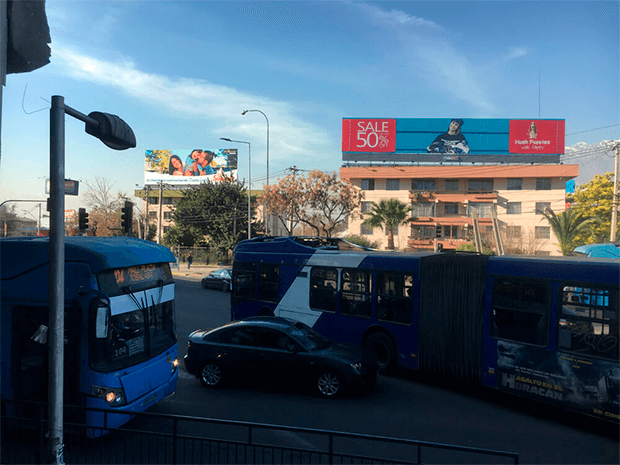
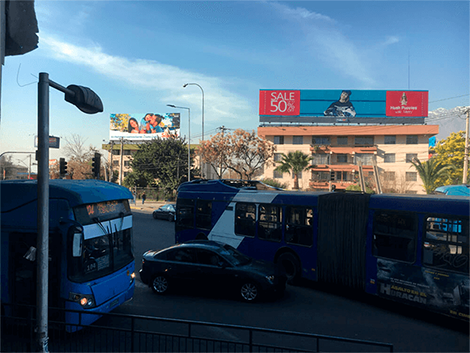
scrset lugar

diff --git a/secciones/lugar.html b/secciones/lugar.html
@@ -7,8 +7,10 @@
     <meta name="viewport" content="width=device-width, initial-scale=1.0">
 
     <!--Keywords y description-->
-    <meta name="keywords" content="ciudad, urbano, urbe, Santiago, Metro, Metro de Santigao, Macul, Peñalolén, La Florida">
-    <meta name="description" content="Estación Macul L4 del Metro de Santiago es el lugar donde se lleva a cabo el proyecto, lugar clave de trasbordo y límite entre comunas">
+    <meta name="keywords"
+        content="ciudad, urbano, urbe, Santiago, Metro, Metro de Santigao, Macul, Peñalolén, La Florida">
+    <meta name="description"
+        content="Estación Macul L4 del Metro de Santiago es el lugar donde se lleva a cabo el proyecto, lugar clave de trasbordo y límite entre comunas">
 
     <!--Open Graph-->
     <meta property="og:title" content="Lugar || La ciudad en los muros">
@@ -21,12 +23,13 @@
 
     <!--Bootstrap CSS-->
     <link href="https://cdn.jsdelivr.net/npm/bootstrap@5.1.3/dist/css/bootstrap.min.css" rel="stylesheet"
-        integrity="sha384-1BmE4kWBq78iYhFldvKuhfTAU6auU8tT94WrHftjDbrCEXSU1oBoqyl2QvZ6jIW3" crossorigin="anonymous"><!--CSS-->
-        <link rel="stylesheet" href="../css/style.css">
-    
+        integrity="sha384-1BmE4kWBq78iYhFldvKuhfTAU6auU8tT94WrHftjDbrCEXSU1oBoqyl2QvZ6jIW3" crossorigin="anonymous">
     <!--CSS-->
     <link rel="stylesheet" href="../css/style.css">
-    
+
+    <!--CSS-->
+    <link rel="stylesheet" href="../css/style.css">
+
     <!--Fonts-->
     <link rel="stylesheet" href="https://use.typekit.net/jet7qle.css">
 
@@ -85,17 +88,26 @@
         <!--Sección 1 – Sobre el lugar-->
         <section class="row about-lugar">
             <div class="col-12">
-                <img src="https://lh3.googleusercontent.com/pw/AM-JKLXtbzCv-mjV5_RDme73v5SpfteoSYqABYh9GOIxlriaQsnIYd6HnV0ruyUUKmicdix2YfzC3UtIuJxYLF9JTvh8lf-GvXglFFVz045LioTiYbwMHnJpmUUN2YiAqYZFMvGK_R1bGuY2QvT_JT8jK0WDCw=w1200-h560-no?authuser=1"
-                    alt="Paso superior Metro Macul L4 Metro de Santiago" class="float-end w-75">
+                <picture class="float-end w-75">
+                    <source media="(max-width: 480px)" srcset="../media/m_lugar__header.webp">
+                    <source media="(min-width: 720px) and (max-width: 1024px)" srcset="../media/t_lugar__header.webp">
+                    <img src="../media/lugar__header.webp" alt="Paso superior Metro Macul L4 Metro de Santiago">
+                </picture>
                 <h1>El lugar</h1>
             </div>
 
             <div class="col-6 col-md-3 offset-md-2" data-aos="fade-up" data-aos-duration="1500">
-                <p class="peque"><i>La ciudad no es de ningún modo perfecta, ni tan siquiera en el sentido limitado de la imaginabilidad; por otra parte, no todo el éxito visual de la ciudad depende de esta sola cualidad. Pero parece haber un placer simple y automático, un sentimiento de satisfacción, de presencia y corrección que surge de la simple vista de la ciudad o de la oportunidad de salir a dar unas vueltas por sus calles.</i></p>
-                <p class="ref">LYNCH, K. La imagen de la ciudad. Barcelona: Editorial Gustavo Gili, SA, 1998, pp. 114.</p>
+                <p class="peque"><i>La ciudad no es de ningún modo perfecta, ni tan siquiera en el sentido limitado de
+                        la imaginabilidad; por otra parte, no todo el éxito visual de la ciudad depende de esta sola
+                        cualidad. Pero parece haber un placer simple y automático, un sentimiento de satisfacción, de
+                        presencia y corrección que surge de la simple vista de la ciudad o de la oportunidad de salir a
+                        dar unas vueltas por sus calles.</i></p>
+                <p class="ref">LYNCH, K. La imagen de la ciudad. Barcelona: Editorial Gustavo Gili, SA, 1998, pp. 114.
+                </p>
             </div>
 
-            <div class="col-10 offset-1 col-md-6 offset-md-1" data-aos="fade-up" data-aos-duration="1500" data-aos-delay="200">
+            <div class="col-10 offset-1 col-md-6 offset-md-1" data-aos="fade-up" data-aos-duration="1500"
+                data-aos-delay="200">
                 <p>
                     El proyecto tiene lugar en las inmediaciones del paso superior de la autopista Vespucio Sur Express
                     que
@@ -136,13 +148,27 @@
         <!--Sección 2 - Imágenes-->
         <section class="row img-lugar" data-aos="fade-up" data-aos-duration="1500">
             <div class="col-12 col-md-4">
-                <img src="../media/lugar__1_6.webp" alt="Hombre esperando en paradero">
+                <picture>
+                    <source media="(max-width: 480px)" srcset="../media/m_lugar__1_6.webp">
+                    <source media="(min-width: 720px) and (max-width: 1024px)" srcset="../media/t_lugar__1_6.webp">
+                    <img src="../media/lugar__1_6.webp" alt="Hombre esperando en paradero">
+                </picture>
             </div>
+
             <div class="col-12 col-md-4" data-aos="fade-up" data-aos-duration="1500">
-                <img src="../media/lugar__2_6.webp" alt="Hombre caminando frente a carteles publicitarios">
+                <picture>
+                    <source media="(max-width: 480px)" srcset="../media/m_lugar__2_6.webp">
+                    <source media="(min-width: 720px) and (max-width: 1024px)" srcset="../media/t_lugar__2_6.webp">
+                    <img src="../media/lugar__2_6.webp" alt="Hombre caminando frente a carteles publicitarios">
+                </picture>
             </div>
+
             <div class="col-12 col-md-4" data-aos="fade-up" data-aos-duration="1500">
-                <img src="../media/lugar__3_6.webp" alt="Multitud caminando junto a Av. Americo Vespucio">
+                <picture>
+                    <source media="(max-width: 480px)" srcset="../media/m_lugar__3_6.webp">
+                    <source media="(min-width: 720px) and (max-width: 1024px)" srcset="../media/t_lugar__3_6.webp">
+                    <img src="../media/lugar__3_6.webp" alt="Multitud caminando junto a Av. Americo Vespucio">
+                </picture>
             </div>
         </section>
         <!--Fin Sección 2-->
@@ -173,13 +199,27 @@
         <!--Galería Sección 3-->
         <section class="row img-lugar-2">
             <div class="col-sm-6 col-md-4 col-lg-4" data-aos="fade-up" data-aos-duration="1500">
-                <img src="../media/lugar__4_6.webp" alt="Gente a la salida de estación Macul">
+                <picture>
+                    <source media="(max-width: 480px)" srcset="../media/m_lugar__4_6.webp">
+                    <source media="(min-width: 720px) and (max-width: 1024px)" srcset="../media/t_lugar__4_6.webp">
+                    <img src="../media/lugar__4_6.webp" alt="Gente a la salida de estación Macul">
+                </picture>
             </div>
+
             <div class="col-sm-6 col-md-4 col-lg-4" data-aos="fade-up" data-aos-duration="1500">
-                <img src="../media/lugar__5_6.webp" alt="Micros 104 y 212 del Transantiago">
+                <picture>
+                    <source media="(max-width: 480px)" srcset="../media/m_lugar__5_6.webp">
+                    <source media="(min-width: 720px) and (max-width: 1024px)" srcset="../media/t_lugar__5_6.webp">
+                    <img src="../media/lugar__5_6.webp" alt="Micros 104 y 212 del Transantiago">
+                </picture>
             </div>
+
             <div class="col-sm-6 col-md-4 col-lg-4" data-aos="fade-up" data-aos-duration="1500">
-                <img src="../media/lugar__6_6.webp" alt="Puestos de comida junto a la salida de estación Macul">
+                <picture>
+                    <source media="(max-width: 480px)" srcset="../media/m_lugar__6_6.webp">
+                    <source media="(min-width: 720px) and (max-width: 1024px)" srcset="../media/t_lugar__6_6.webp">
+                    <img src="../media/lugar__6_6.webp" alt="Puestos de comida junto a la salida de estación Macul">
+                </picture>
             </div>
         </section>
         <!--Fin Galería sección 3-->
@@ -231,7 +271,8 @@
         <!--Columna 3-->
         <div class="col-12 col-md-6 col-lg-6 col-xl-4">
             <p>Si deseas leer el texto completo de este proyecto,
-                <a href="https://repositorio.uchile.cl/handle/2250/173200" target="_blank" rel="nofollow"><b>ingresa acá</b></a>
+                <a href="https://repositorio.uchile.cl/handle/2250/173200" target="_blank" rel="nofollow"><b>ingresa
+                        acá</b></a>
             </p>
             <p>Si deseas saber más,
                 <a href="mailto:nivacea@gmail.com"><b>hablemos</b></a>

diff --git a/css/style.css b/css/style.css
@@ -345,7 +345,7 @@ nav.navbar {
   @media only screen and (max-width: 480px) {
     .lugar .about-lugar {
       padding-top: 25%; } }
-  .lugar .about-lugar img {
+  .lugar .about-lugar picture {
     margin-bottom: 10%; }
   @media only screen and (max-width: 480px) {
     .lugar .about-lugar h1 {
@@ -363,7 +363,7 @@ nav.navbar {
 
 .lugar .img-lugar {
   margin: 0; }
-  .lugar .img-lugar div img {
+  .lugar .img-lugar div picture {
     width: 100%;
     margin: 2% 0; }
   .lugar .img-lugar div:nth-child(2) {
@@ -395,7 +395,7 @@ nav.navbar {
     @media only screen and (max-width: 480px) {
       .lugar .img-lugar-2 div:last-child {
         position: static; } }
-  .lugar .img-lugar-2 div img {
+  .lugar .img-lugar-2 div picture {
     width: 100%;
     margin: 2% 0; }
 

diff --git a/scss/components/_lugar.scss b/scss/components/_lugar.scss
@@ -8,7 +8,7 @@
       padding-top: 25%;
     }
 
-    img {
+    picture {
       margin-bottom: 10%;
     }
 
@@ -39,7 +39,7 @@
     margin: 0;
 
     div {
-      img {
+      picture {
         width: 100%;
         margin: 2% 0;
       }
@@ -84,7 +84,7 @@
         }
       }
 
-      img {
+      picture {
         width: 100%;
         margin: 2% 0;
       }
